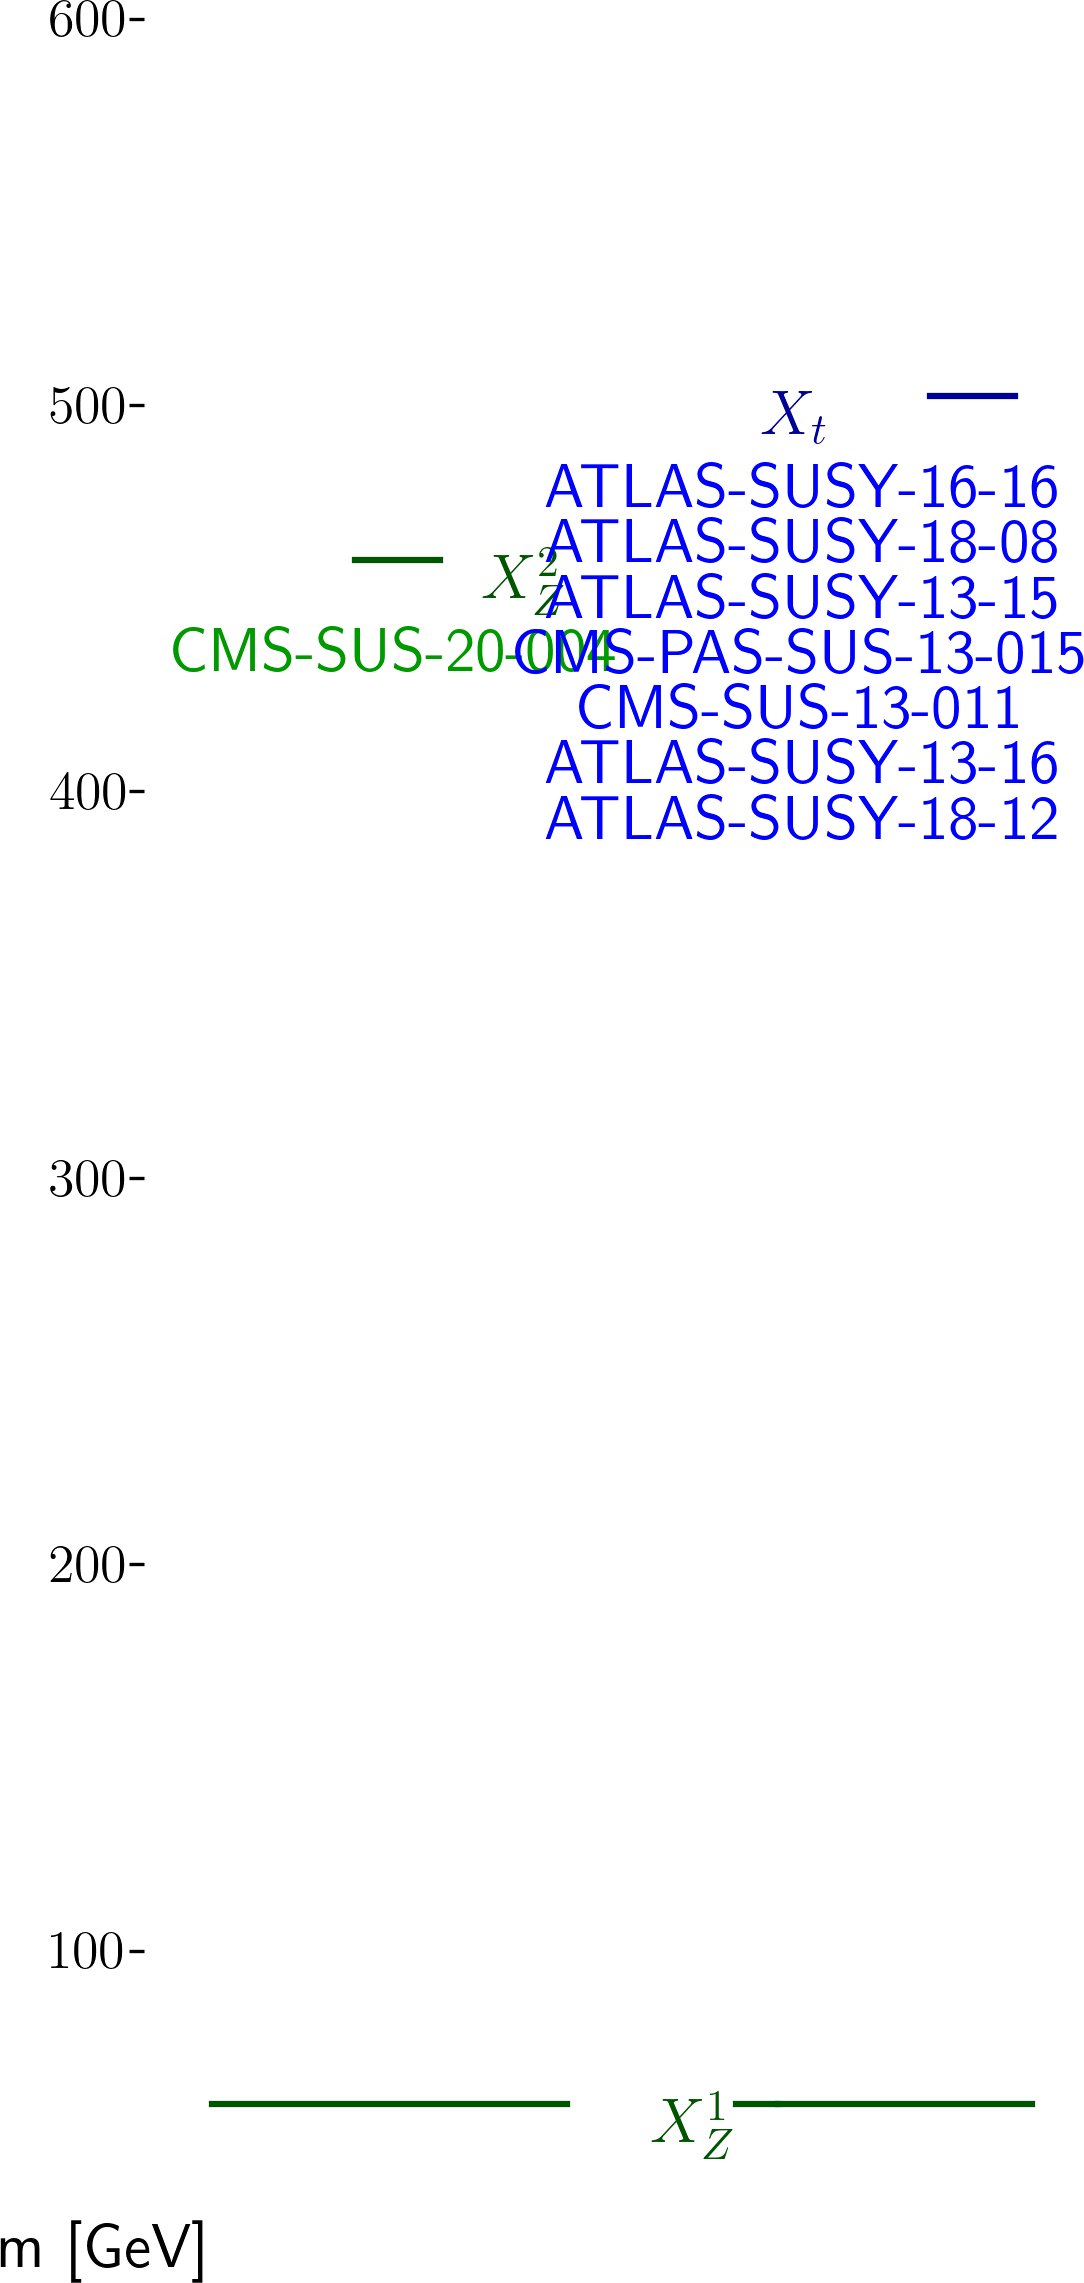
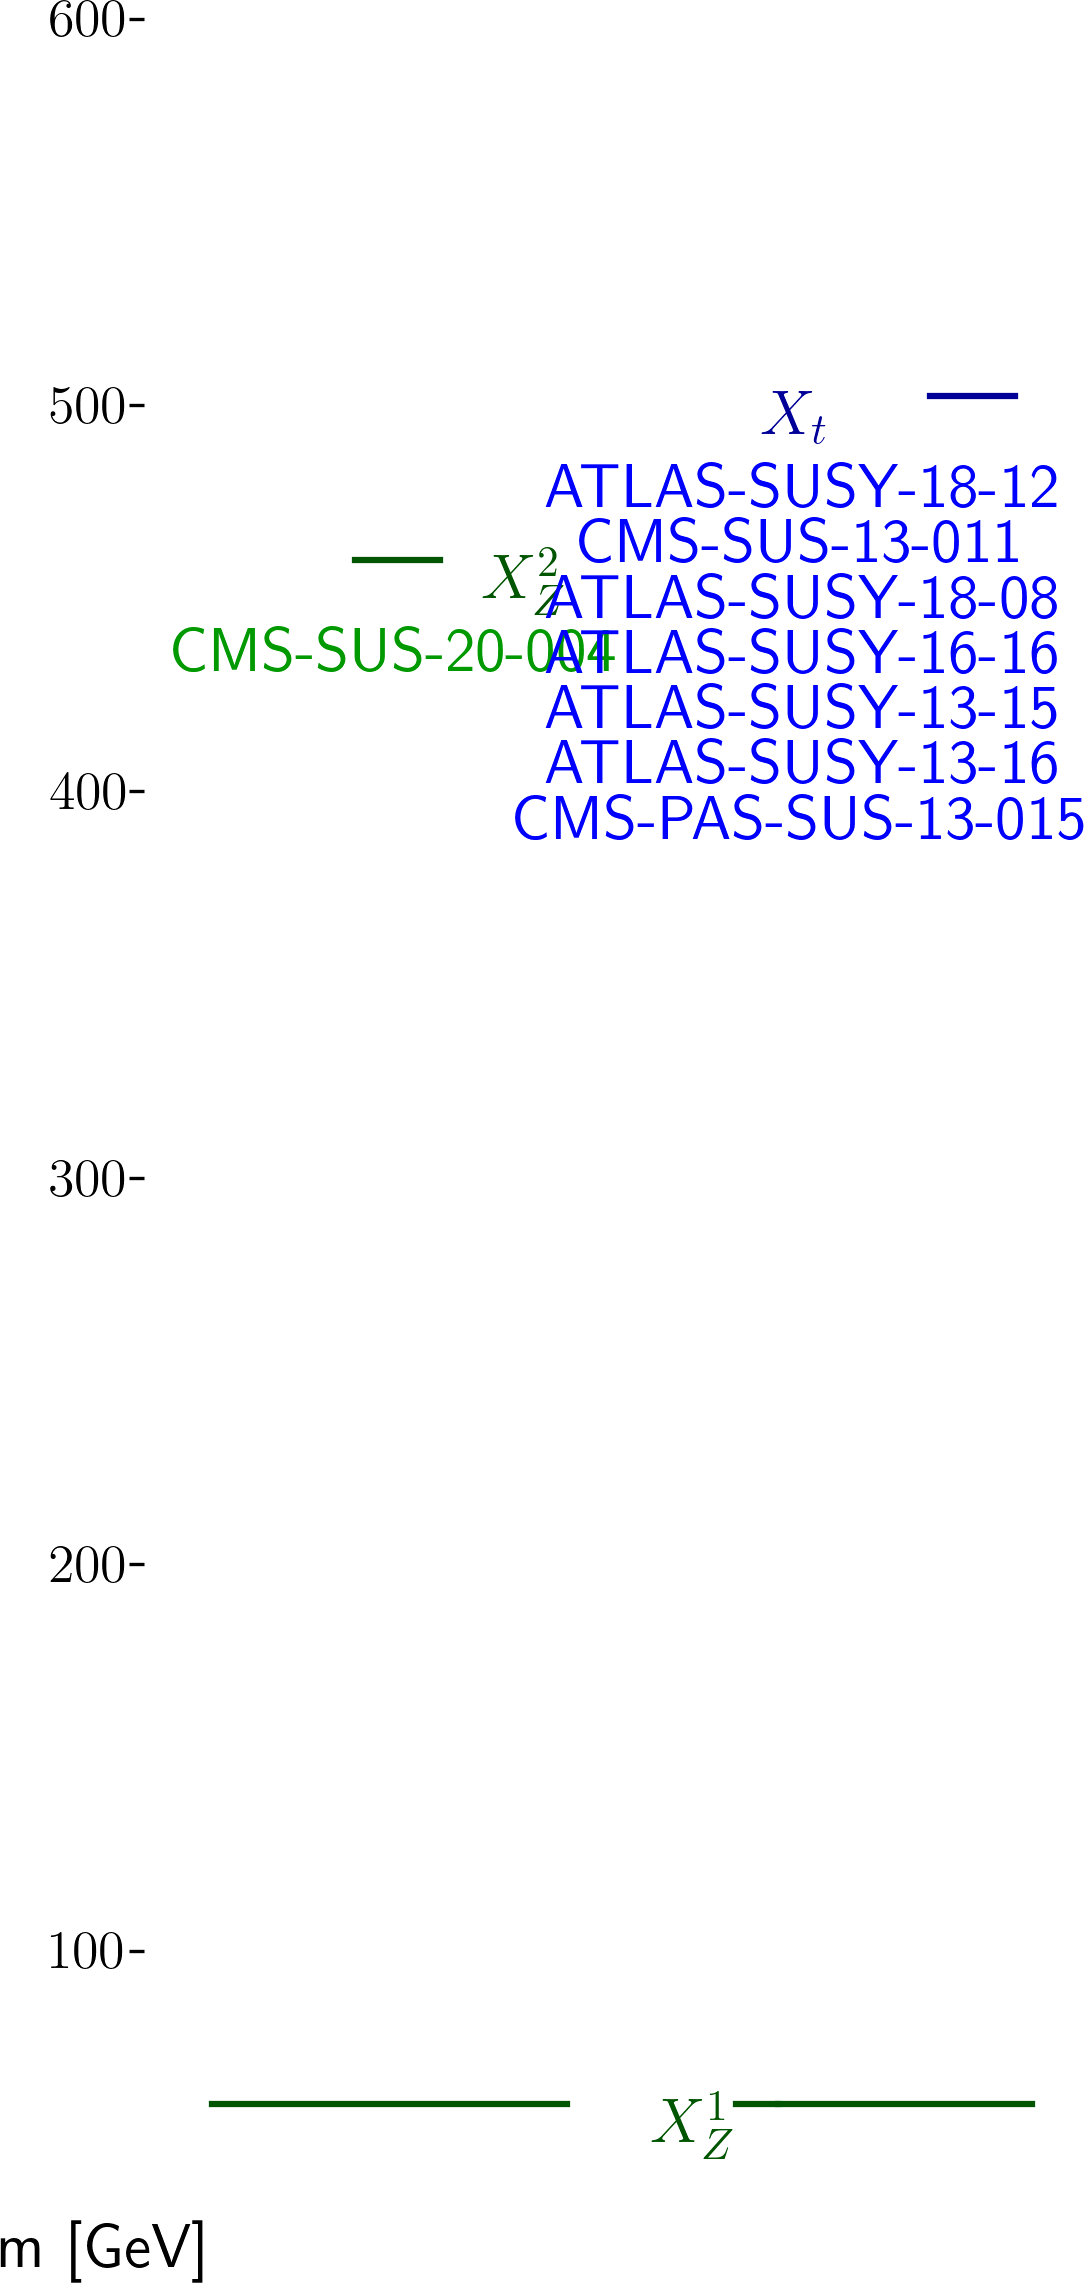
automated update by plotHiscore.py to experimental_300:     K=9.258 Z=3.58 walkerid=0

Changed region(s): [[0.4566, 0.1866, 1.0, 0.3732]]

diff --git a/protomodels/experimental_300/index.html b/protomodels/experimental_300/index.html
@@ -3,8 +3,8 @@
 <center>
 <table><td><h1>Current best protomodel: <i>K</i>=9.26, <i>Z</i>=3.58</h1><td><img height=60px src=https://smodels.github.io//protomodels/logos/protomodel_lego.png></table>
 </center>
-<b><a href=./hiscore.slha>ProtoModel</a> <a href=./pmodel.dict>(dict)</a> produced with <a href=https://smodels.github.io//docs/Validation300-beta>database v3.0.0-beta</a>, combination strategy <a href=./matrix.png>aggressive</a> in walker 0 step 0.</b> llhd plots: <a href=llhdXt_mXtXt.png?1137303>Xt_mXtXt</a> <a href=llhdX2Z_X2ZX2Z.png?1137303>X2Z_X2ZX2Z</a> <a href=llhdXt_XtXt.png?1137303>Xt_XtXt</a> <a href=llhdXt.png?1137303>Xt</a> <a href=llhdX2Z.png?1137303>X2Z</a>
-S plots: <a href=MXt.png?1137303>Xt</a> <a href=MX2Z.png?1137303>X2Z</a> <a href=MX1Z.png?1137303>X1Z</a>
+<b><a href=./hiscore.slha>ProtoModel</a> <a href=./pmodel.dict>(dict)</a> produced with <a href=https://smodels.github.io//docs/Validation300-beta>database v3.0.0-beta</a>, combination strategy <a href=./matrix.png>aggressive</a> in walker 0 step 0.</b> llhd plots: <a href=llhdXt_mXtXt.png?1380649>Xt_mXtXt</a> <a href=llhdX2Z_X2ZX2Z.png?1380649>X2Z_X2ZX2Z</a> <a href=llhdXt_XtXt.png?1380649>Xt_XtXt</a> <a href=llhdXt.png?1380649>Xt</a> <a href=llhdX2Z.png?1380649>X2Z</a>
+S plots: <a href=MXt.png?1380649>Xt</a> <a href=MX2Z.png?1380649>X2Z</a> <a href=MX1Z.png?1380649>X1Z</a>
 <br>
 <table width=80%>
 <tr><td>
@@ -15,11 +15,11 @@ S plots: <a href=MXt.png?1137303>Xt</a> <a href=MX2Z.png?1137303>X2Z</a> <a href
 <li><a href=http://cms-results.web.cern.ch/cms-results/public-results/publications/SUS-19-006/index.html>CMS-SUS-19-006-agg</a>:comb:T2tt r=0.70, r<sub>exp</sub>=0.43<br>
 <li><a href=http://cms-results.web.cern.ch/cms-results/public-results/publications/SUS-19-006/index.html>CMS-SUS-19-006</a>:ul:T2tt r=0.64, r<sub>exp</sub>=0.46<br>
 </ul>
-<td><img width=600px src=./texdoc.png?1710257303>
-<br><font size=-1>Last updated: Tue Mar 12 16:28:23 2024</font>
+<td><img width=600px src=./texdoc.png?1710500649>
+<br><font size=-1>Last updated: Fri Mar 15 12:04:09 2024</font>
 </table><table style="width:80%">
-<td width=45%><img height=580px src=./ruler.png?1710257303><td width=55%><img height=340px src=./decays.png?1710257303>
-<font size=-3><iframe type="text/html" height="270px" width="100%" frameborder="0" src="./rawnumbers.html?1710257303"></iframe></font>
+<td width=45%><img height=580px src=./ruler.png?1710500649><td width=55%><img height=290px src=./decays.png?1710500649>
+<font size=-3><iframe type="text/html" height="270px" width="100%" frameborder="0" src="./rawnumbers.html?1710500649"></iframe></font>
 </table>
 </body>
 </html>

diff --git a/protomodels/experimental_300/rawnumbers.html b/protomodels/experimental_300/rawnumbers.html
@@ -5,7 +5,7 @@
 <tr><td><a href=https://atlas.web.cern.ch/Atlas/GROUPS/PHYSICS/PAPERS/SUSY-2013-16/>ATLAS-SUSY-2013-16</a></td><td>em</td> <td>SRA4</td><td>T2tt</td><td>4</td><td>2.40 +/- 0.70</td><td style="text-align:right">0.9 &sigma;</td><td style="text-align:right">X<sup>1</sup><sub>Z</sub>, X<sub>t</sub></td></tr>
 <tr><td><a href=https://atlas.web.cern.ch/Atlas/GROUPS/PHYSICS/PAPERS/SUSY-2016-16/>ATLAS-SUSY-2016-16</a></td><td>em</td> <td>tN_med</td><td>T2tt</td><td>50</td><td>36.30 +/- 6.60</td><td style="text-align:right">1.5 &sigma;</td><td style="text-align:right">X<sup>1</sup><sub>Z</sub>, X<sub>t</sub></td></tr>
 <tr><td><a href=https://atlas.web.cern.ch/Atlas/GROUPS/PHYSICS/PAPERS/SUSY-2018-08/>ATLAS-SUSY-2018-08</a></td><td>em</td> <td>SRSF140</td><td>T2tt</td><td>9</td><td>5.10 +/- 0.90</td><td style="text-align:right">1.5 &sigma;</td><td style="text-align:right">X<sup>1</sup><sub>Z</sub>, X<sub>t</sub></td></tr>
-<tr><td><a href=https://atlas.web.cern.ch/Atlas/GROUPS/PHYSICS/PAPERS/SUSY-2018-12/>ATLAS-SUSY-2018-12</a></td><td>em</td> <td>SRBTT</td><td>T2tt</td><td>67</td><td>46.00 +/- 7.00</td><td style="text-align:right">2.0 &sigma;</td><td style="text-align:right">X<sup>1</sup><sub>Z</sub>, X<sub>t</sub></td></tr>
+<tr><td><a href=https://atlas.web.cern.ch/Atlas/GROUPS/PHYSICS/PAPERS/SUSY-2018-12/>ATLAS-SUSY-2018-12</a></td><td>em</td> <td>SRBTT</td><td>T2tt</td><td>67</td><td>46.00 +/- 7.00</td><td style="text-align:right">2.1 &sigma;</td><td style="text-align:right">X<sup>1</sup><sub>Z</sub>, X<sub>t</sub></td></tr>
 <tr><td><a href=https://twiki.cern.ch/twiki/bin/view/CMSPublic/PhysicsResultsSUS13015>CMS-PAS-SUS-13-015</a></td><td>em</td> <td>pTmiss350_Nb2</td><td>T2tt</td><td>15</td><td>8.60 +/- 7.10</td><td style="text-align:right">0.8 &sigma;</td><td style="text-align:right">X<sup>1</sup><sub>Z</sub>, X<sub>t</sub></td></tr>
 <tr><td><a href=https://twiki.cern.ch/twiki/bin/view/CMSPublic/PhysicsResultsSUS13011>CMS-SUS-13-011</a></td><td>em</td> <td>LM150</td><td>T2tt</td><td>227</td><td>251.00 +/- 50.00</td><td style="text-align:right">-0.5 &sigma;</td><td style="text-align:right">X<sup>1</sup><sub>Z</sub>, X<sub>t</sub></td></tr>
 <tr><td><a href=http://cms-results.web.cern.ch/cms-results/public-results/publications/SUS-20-004/>CMS-SUS-20-004</a></td><td>comb</td> <td>-</td><td>TChiHH</td><td> 0.2 fb </td><td> 0.1 fb</td><td style="text-align:right">2.4 &sigma;</td><td style="text-align:right">X<sup>1</sup><sub>Z</sub>, X<sup>2</sup><sub>Z</sub></td></tr>
